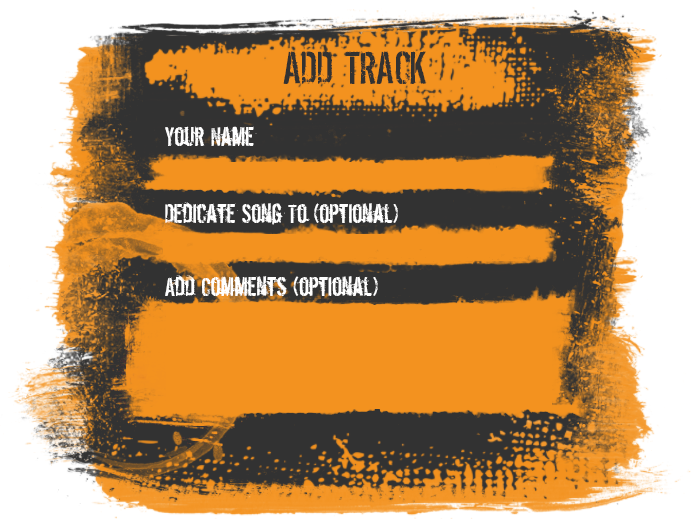
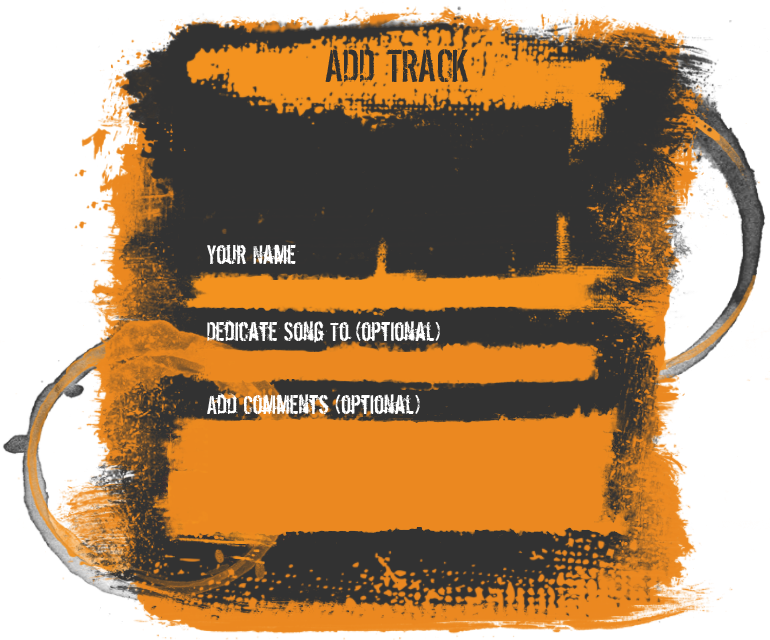
Redone add track dialog - added track details (ACpoole)

diff --git a/designs/Layout/CSS/site.css b/designs/Layout/CSS/site.css
@@ -121,13 +121,21 @@
 
 /* Add Track
 ############################# */
-#addTrack  { }
-#yourName                       { margin:154px 0 0 148px; }
+#addTrack                       { }
+#addtrackDetails                { margin:130px 0 0 192px; width:392px; height:100px; }
+#addtrackDetails .trackTitle    { float:left!important; color:#fff; font-size:1.2em; margin:0!important; float:left!important; width:100%; }
+#addtrackDetails .riThumb       { width:56px; margin:0!important; margin:8px 8px 0 0!important; }
+#trackdetailsHolder             { float:left; margin:12px 0 0 0; }
+.trackdetailsTitle              { color:#fff; }
+.trackdetailsAlbum              { float:left; color:#fff; font-size:1em; }
+.trackTime                      { color:#fff; float:right; margin:0 0 0 20px; }
+
+#yourName                       { margin:44px 0 0 192px; }
 #yourName input[type="text"]    { background-color:#f3921f; border:none; width:350px; height:20px; padding-left:4px; color:#fff; font-size:1.1em; font-style:italic; outline: 0;  }
-#dedicateTo                     { margin:51px 0 0 148px; }
-#dedicateTo input[type="text"]  { background-color:#f3921f; border:none; width:350px; height:20px; padding-left:4px; color:#fff; font-size:1.1em; font-style:italic; outline: 0;  }
-#addComment textarea            { background-color: #f3921f; border:none; outline:0!important; resize:none; margin:55px 0 0 155px; width:380px; height:88px; color:#fff; font-size:1.1em; font-style:italic; }
-#addtrackBtns                   { margin:13px 0 0 77px; width:500px;;}
+#dedicateTo                     { margin:51px 0 0 192px; }
+#dedicateTo input[type="text"]  { background-color:#eb8820; border:none; width:350px; height:20px; padding-left:4px; color:#fff; font-size:1.1em; font-style:italic; outline: 0;  }
+#addComment textarea            { background-color: #eb8820; border:none; outline:0!important; resize:none; margin:50px 0 0 182px; width:380px; height:88px; color:#fff; font-size:1.1em; font-style:italic; }
+#addtrackBtns                   { margin:16px 0 0 125px; width:500px;;}
 #addtrackBtn                    { float:left; }
 #addtrackanonBtn                { float:right; }
 #addtrackBtn:hover              { cursor:pointer; }
@@ -138,6 +146,6 @@
 /* jQuery Dialog Overrides
 ############################# */
 .ui-dialog-titlebar     { display:none!important; }
-.ui-dialog              { border:none; top:60px!important; width:691px!important; height:519px!important; }
-.ui-front               { background: url('../Images/add-track-popupBG.png'); }
-div.ui-widget-overlay      { background: url('../Images/popupBG.png')!important; opacity: .7; }
+.ui-dialog              { border:none; top:60px!important; width:760px!important; height:633px!important; }
+.ui-front               { background: url('../Images/add-track-popupBG.png') no-repeat; }
+div.ui-widget-overlay   { background: url('../Images/popupBG.png')!important; opacity: .1; }

diff --git a/designs/Layout/index.html b/designs/Layout/index.html
@@ -39,6 +39,17 @@
 
 
     <div id="dialog" title="Add Track">
+        <div id="addtrackDetails">
+            <div class="trackTitle">Oasis - 1995</div>
+            <div class="riThumb"><img src="Images/search-1.jpg" /></div>
+            <div id="trackdetailsHolder">
+                <div class="trackdetailsTitle">Wonderwall</div>
+                <div class="trackdetailsAlbum">What's the story morning glory</div>
+                <div class="trackTime">Time: 4:19</div>
+            </div>
+
+        </div>
+
         <div id="yourName"><input type="text" /></div>
         <div id="dedicateTo"><input type="text" /></div>
         <div id="addComment"><textarea class="addtrackComments"></textarea></div>
@@ -47,7 +58,6 @@
             <div id="addtrackanonBtn"><img src="Images/btn-add-track-anon.png" onclick="overlayclickclose()" /></div>
         </div>
     </div>
-
 
 
     <div id="wrapper">
